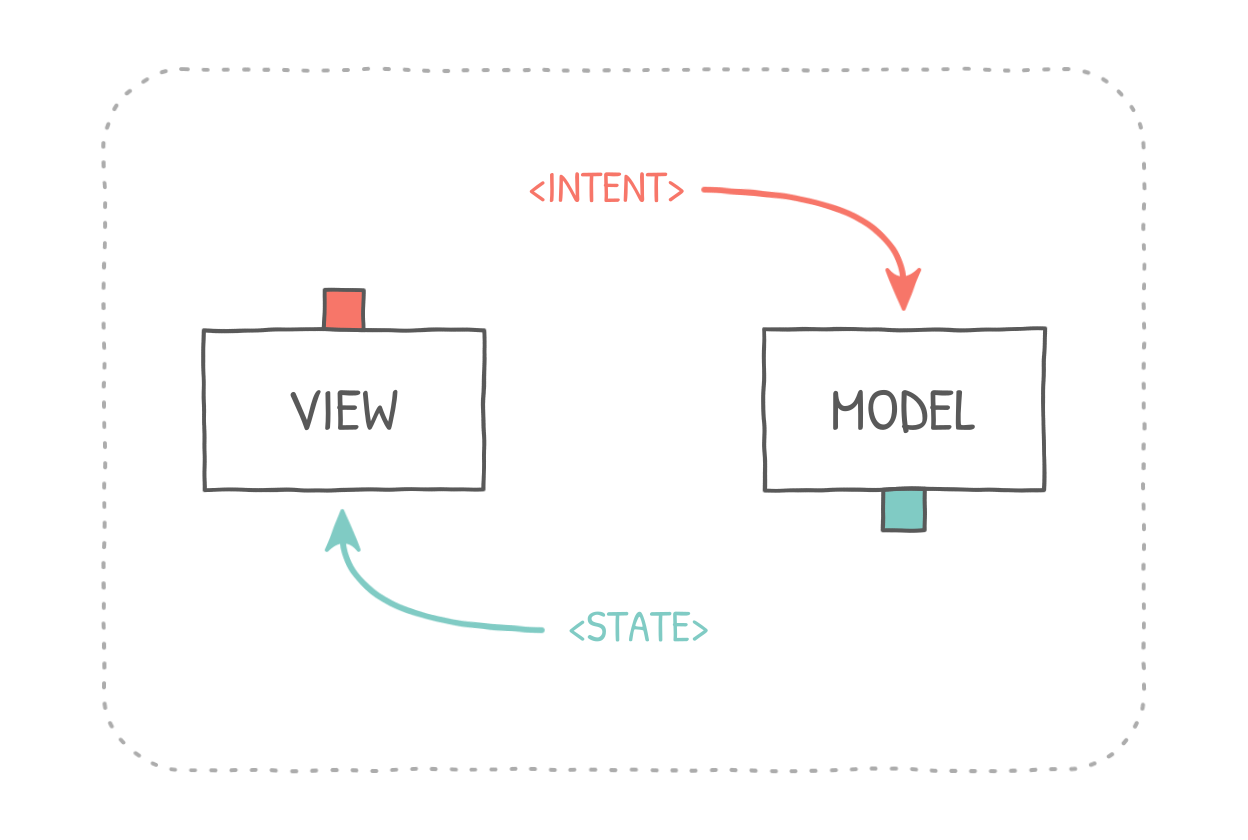
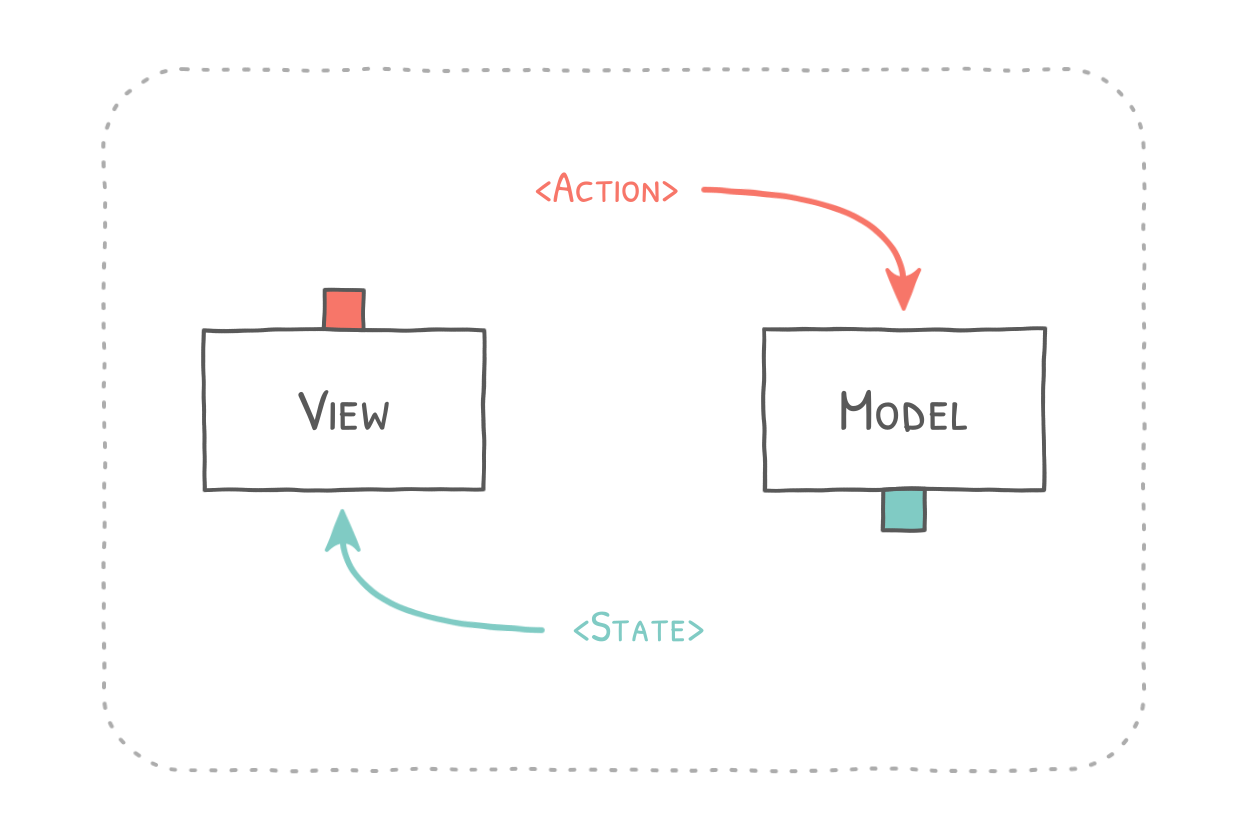
Rename Intent to Action
This avoids confusion with the Intent concept on Android and more
closely follows the naming of Redux.

diff --git a/mvi/src/main/kotlin/cc/femto/kommon/mvi/BaseModel.kt b/mvi/src/main/kotlin/cc/femto/kommon/mvi/BaseModel.kt
@@ -5,7 +5,7 @@ import io.reactivex.disposables.CompositeDisposable
 import io.reactivex.subjects.BehaviorSubject
 import io.reactivex.subjects.PublishSubject
 
-abstract class BaseModel<INTENT : Intent, STATE> : Model<INTENT, STATE> {
+abstract class BaseModel<ACTION : Action, STATE> : Model<ACTION, STATE> {
 
     protected val disposables = CompositeDisposable()
     protected val state: BehaviorSubject<STATE> = BehaviorSubject.create()
@@ -13,13 +13,13 @@ abstract class BaseModel<INTENT : Intent, STATE> : Model<INTENT, STATE> {
 
     override fun state(): Observable<STATE> = state
 
-    override fun attach(intents: Observable<INTENT>) {
+    override fun attach(actions: Observable<ACTION>) {
         makeStateStream(
-            makeStateMutations(intents),
+            makeStateMutations(actions),
             initialState(),
             ::reduce
         )
-        disposables.add(makeSideEffects(intents))
+        disposables.add(makeSideEffects(actions))
     }
 
     override fun detach() {
@@ -38,7 +38,7 @@ abstract class BaseModel<INTENT : Intent, STATE> : Model<INTENT, STATE> {
      *
      * @return [Observable] of [Event] feeding into [reduce]
      */
-    protected abstract fun makeStateMutations(intents: Observable<INTENT>): Observable<out Event>
+    protected abstract fun makeStateMutations(actions: Observable<ACTION>): Observable<out Event>
 
     /**
      * Reduce events to mutated state
@@ -56,10 +56,10 @@ abstract class BaseModel<INTENT : Intent, STATE> : Model<INTENT, STATE> {
      *
      * @return [CompositeDisposable] containing subscriptions that need to be managed
      */
-    protected open fun makeSideEffects(intents: Observable<INTENT>) = CompositeDisposable()
+    protected open fun makeSideEffects(actions: Observable<ACTION>) = CompositeDisposable()
 
     /**
-     * Exposes the internal [Event] stream that passes through the reducer and mutates state
+     * Exposes the internal [Event] stream that is being reduced to state over time
      */
     protected fun events(): Observable<Event> = events
 

diff --git a/mvi/src/main/kotlin/cc/femto/kommon/mvi/Model.kt b/mvi/src/main/kotlin/cc/femto/kommon/mvi/Model.kt
@@ -2,25 +2,25 @@ package cc.femto.kommon.mvi
 
 import io.reactivex.Observable
 
-interface Model<INTENT : Intent, STATE> {
+interface Model<ACTION : Action, STATE> {
     /**
-     * Attach the model to an intent stream
+     * Attach the model to an action stream
      *
-     * NB: Always attach model to view before attaching intent stream to model
+     * NB: Always attach model to view before attaching action stream to model
      *
      * Usage:
      * <code>
      *     override fun onCreate(savedInstanceState: Bundle?) {
      *         super.onCreate(savedInstanceState)
      *         view.attach(model.state().observeOn(AndroidSchedulers.mainThread()))
-     *         model.attach(view.intents())
+     *         model.attach(view.actions())
      *     }
      * </code>
      */
-    fun attach(intents: Observable<INTENT>)
+    fun attach(actions: Observable<ACTION>)
 
     /**
-     * Detach the model from previously attached intent stream
+     * Detach the model from previously attached action stream
      *
      * Usage:
      * <code>

diff --git a/mvi/src/main/kotlin/cc/femto/kommon/mvi/View.kt b/mvi/src/main/kotlin/cc/femto/kommon/mvi/View.kt
@@ -2,7 +2,7 @@ package cc.femto.kommon.mvi
 
 import io.reactivex.Observable
 
-interface View<INTENT : Intent, STATE> {
+interface View<ACTION : Action, STATE> {
     /**
      * Attach the view to a state stream
      *
@@ -14,12 +14,12 @@ interface View<INTENT : Intent, STATE> {
     fun attach(state: Observable<STATE>)
 
     /**
-     * Obtain intent stream for attaching to model
+     * Obtain action stream for attaching to model
      *
      * Usage:
      * <code>
-     *     model.attach(view.intents())
+     *     model.attach(view.actions())
      * </code>
      */
-    fun intents(): Observable<INTENT>
+    fun actions(): Observable<ACTION>
 }

diff --git a/mvi/src/main/kotlin/cc/femto/kommon/mvi/Action.kt b/mvi/src/main/kotlin/cc/femto/kommon/mvi/Action.kt
@@ -1,10 +1,10 @@
 package cc.femto.kommon.mvi
 
 /**
- * Intents flow from the view to the model.
+ * Actions flow from the view to the model and express user intent.
  *
  * Example:
  * In order to fetch data for a screen, the view would send a
  * corresponding intent to the model, specifying the desired data.
  */
-interface Intent
+interface Action
